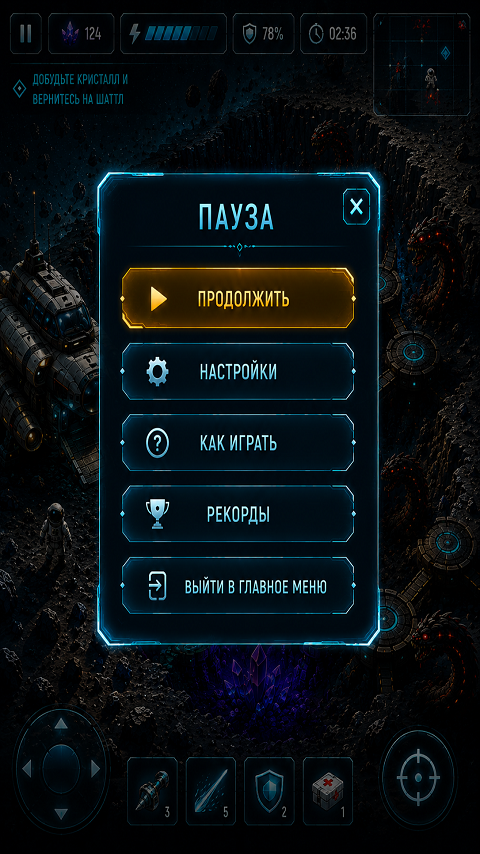
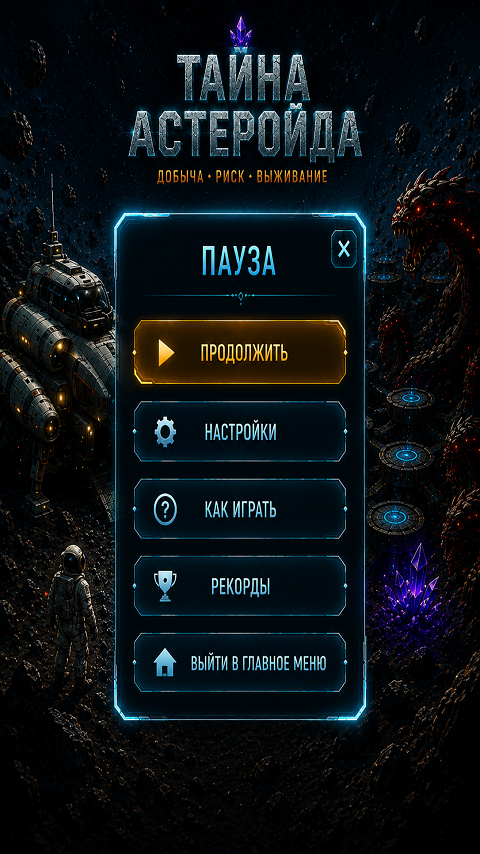
Экран паузы заменён на макет v2, хит-зоны кнопок пересняты
- assets/ui_designs/pause_screen.png <- новый PAUSE_SCREEN.png (480x854 RGBA, 790КБ),
  исходник из корня удалён.
- Хит-зоны по новому макету (детект краёв кнопок):
  ПРОДОЛЖИТЬ (оранж) y=318..388, НАСТРОЙКИ 430..482, КАК ИГРАТЬ 507..559,
  РЕКОРДЫ 584..636, ВЫЙТИ В ГЛАВНОЕ МЕНЮ 655..720, X — верх-право панели.
- Кликовый прогон: pause->resume->settings->back->рекорды(заглушка)->меню. Без ошибок.
КАК ИГРАТЬ и РЕКОРДЫ пока действуют как 'продолжить' (контента нет).

diff --git a/js/ui_manager.js b/js/ui_manager.js
@@ -28,13 +28,13 @@ const UIManager = (() => {
       { id: 'settings', x: 355, y: 68,  w: 110, h: 34 },  // НАСТРОЙКИ (верх справа)
     ],
     // Пауза (pause_screen.png): 5 кнопок в панели
-    paused: [
-      { id: 'resume',   x: 120, y: 265, w: 240, h: 52 },  // ПРОДОЛЖИТЬ
-      { id: 'settings', x: 120, y: 335, w: 240, h: 52 },  // НАСТРОЙКИ
-      { id: 'resume2',  x: 120, y: 405, w: 240, h: 52 },  // КАК ИГРАТЬ (пока = resume)
-      { id: 'resume3',  x: 120, y: 475, w: 240, h: 52 },  // РЕКОРДЫ (пока = resume)
-      { id: 'to_menu',  x: 120, y: 545, w: 240, h: 52 },  // ВЫЙТИ В ГЛАВНОЕ МЕНЮ
-      { id: 'resume',   x: 428, y: 190, w: 36,  h: 36 },  // X (закрыть)
+    paused: [  // макет PAUSE_SCREEN v2 от 13.07.2026 (детект по краям кнопок)
+      { id: 'resume',   x: 120, y: 318, w: 240, h: 70 },  // ПРОДОЛЖИТЬ (оранжевая)
+      { id: 'settings', x: 105, y: 430, w: 270, h: 52 },  // НАСТРОЙКИ
+      { id: 'resume2',  x: 105, y: 507, w: 270, h: 52 },  // КАК ИГРАТЬ (пока = resume)
+      { id: 'resume3',  x: 105, y: 584, w: 270, h: 52 },  // РЕКОРДЫ (пока = resume)
+      { id: 'to_menu',  x: 105, y: 655, w: 270, h: 65 },  // ВЫЙТИ В ГЛАВНОЕ МЕНЮ
+      { id: 'resume',   x: 405, y: 88,  w: 60,  h: 42 },  // X (закрыть, верх-право панели)
     ],
     // Настройки (settings_screen.png): пока только "назад"
     settings: [